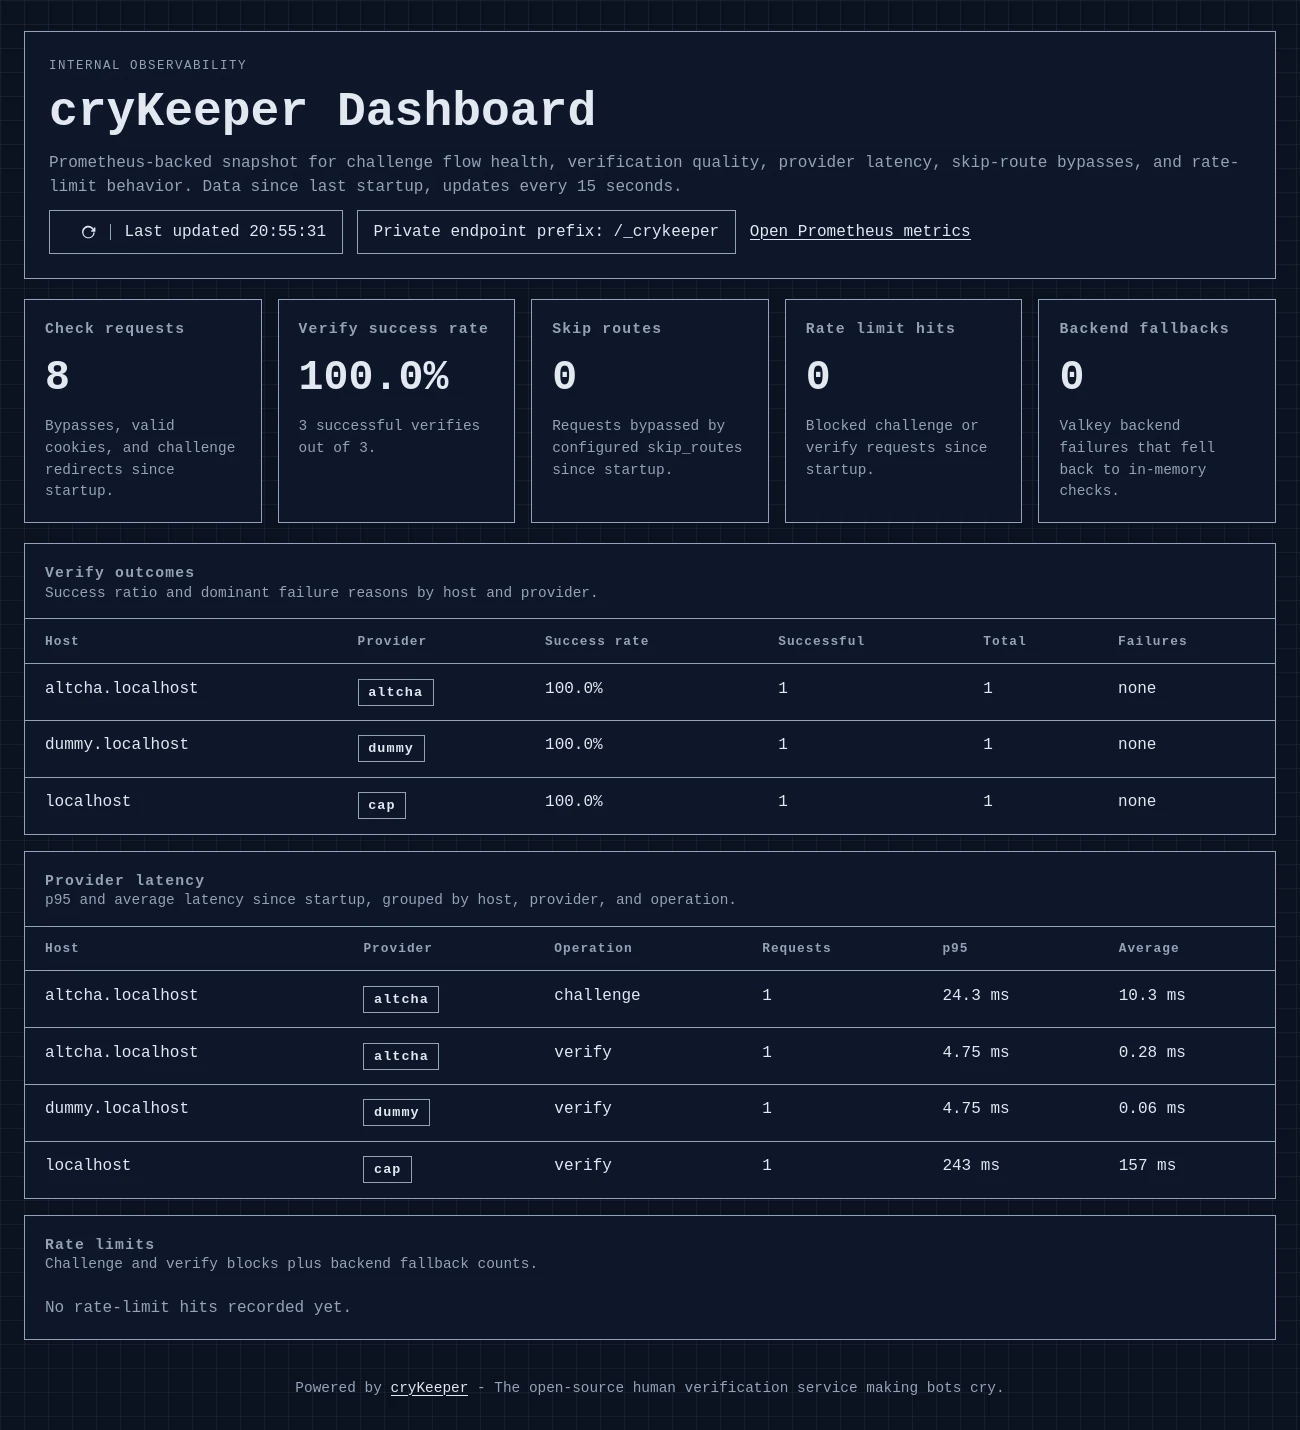
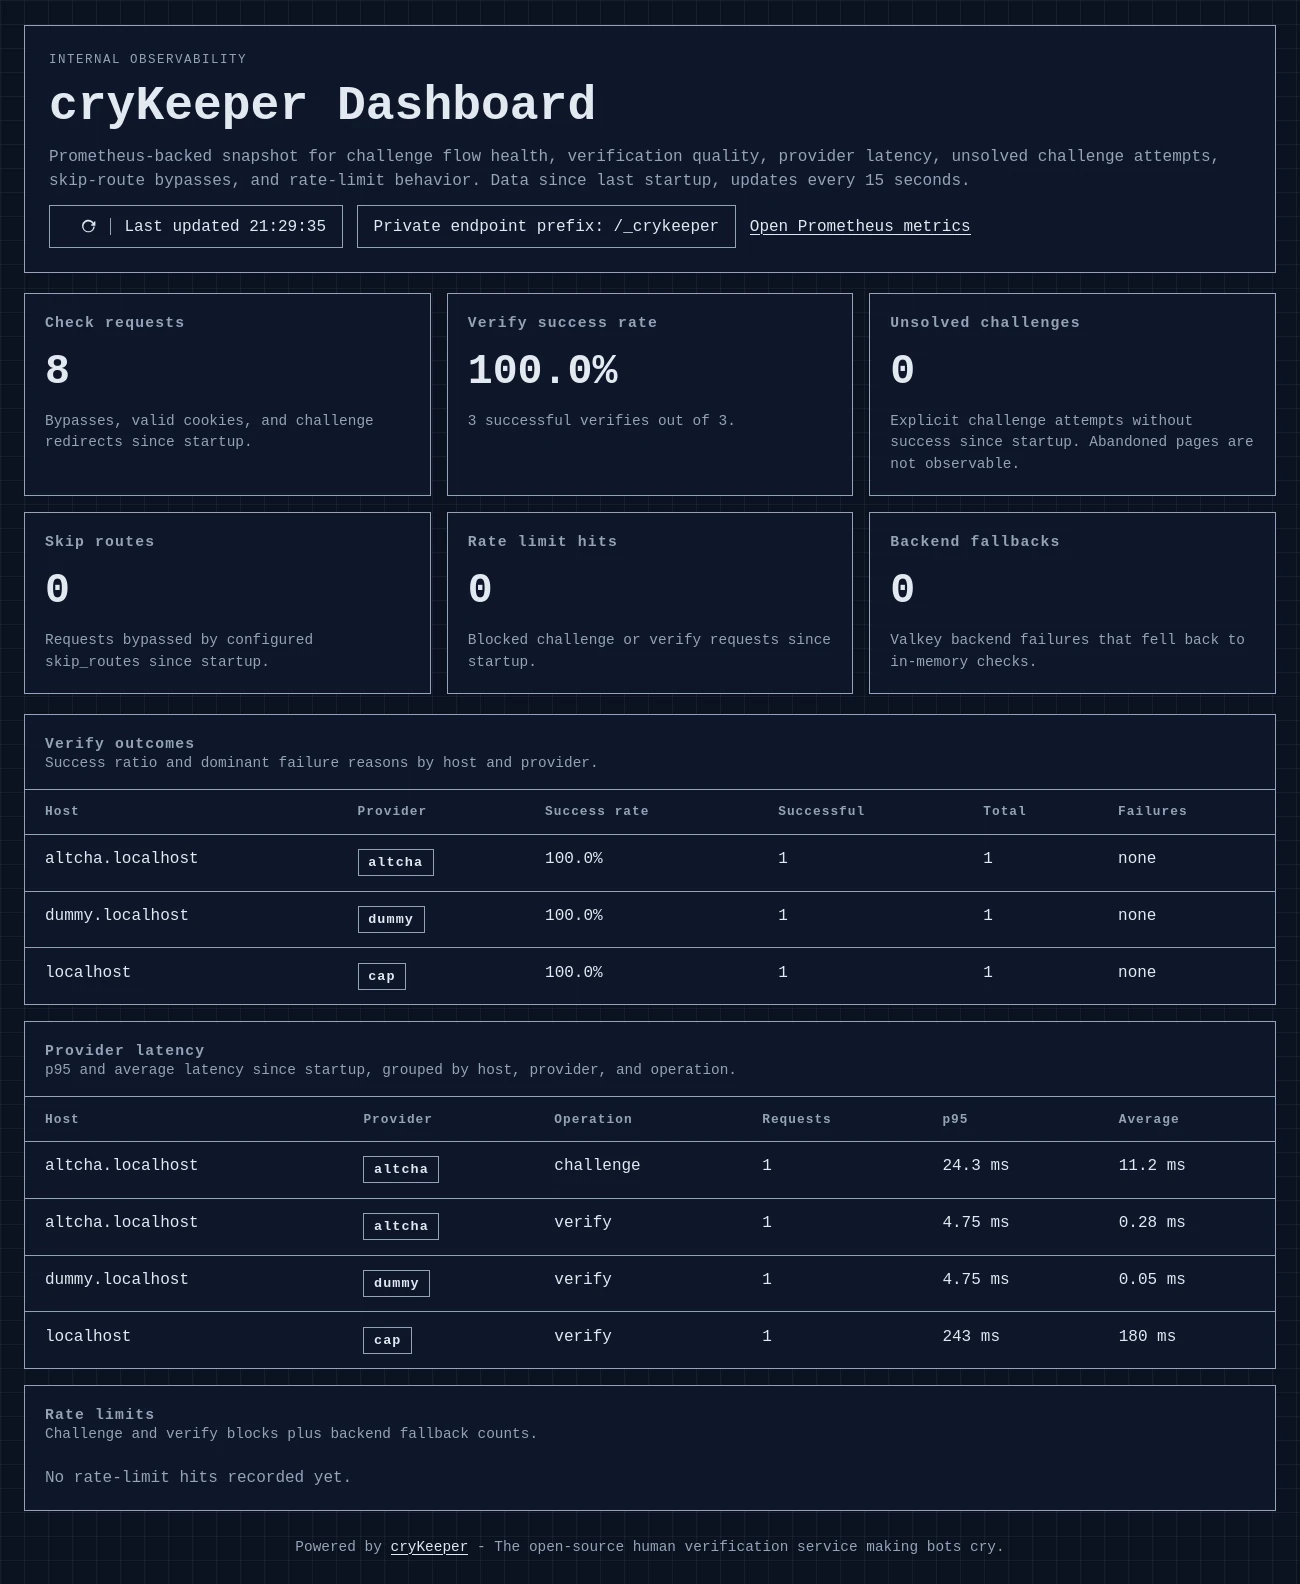
Added explicit challenge attempts without success to metrics

diff --git a/app/static/dashboard.js b/app/static/dashboard.js
@@ -20,6 +20,11 @@
         `${formatInteger(snapshot.verifySuccess)} successful verifies out of ${formatInteger(snapshot.verifyTotal)}.`,
       value: (snapshot) => formatRate(snapshot.verifySuccess, snapshot.verifyTotal),
     },
+    unsolved_challenges: {
+      detail: () =>
+        "Explicit challenge attempts without success since startup. Abandoned pages are not observable.",
+      value: (snapshot) => formatInteger(snapshot.unsolvedChallenges),
+    },
     skip_routes: {
       detail: () => "Requests bypassed by configured skip_routes since startup.",
       value: (snapshot) => formatInteger(snapshot.skipRoutes),
@@ -337,6 +342,10 @@
       skipRoutes: sumLabeledSamples(samples, "crykeeper_auth_bypass_total", {
         reason: "skip_route",
       }),
+      unsolvedChallenges: sumSamples(
+        samples,
+        "crykeeper_unsolved_challenge_attempts_total",
+      ),
       verifyRows: buildVerifyRows(samples),
       verifySuccess: totals.success,
       verifyTotal: totals.total,

diff --git a/app/templates/dashboard.html b/app/templates/dashboard.html
@@ -19,7 +19,8 @@
         <h1>cryKeeper Dashboard</h1>
         <p>
           Prometheus-backed snapshot for challenge flow health, verification quality,
-          provider latency, skip-route bypasses, and rate-limit behavior.
+          provider latency, unsolved challenge attempts, skip-route bypasses,
+          and rate-limit behavior.
           Data since last startup, updates every 15 seconds.
         </p>
         <div class="hero-actions">

diff --git a/app/static/dashboard.css b/app/static/dashboard.css
@@ -103,7 +103,7 @@ main.dashboard-shell {
 
 .dashboard-shell .cards {
   display: grid;
-  grid-template-columns: repeat(auto-fit, minmax(210px, 1fr));
+  grid-template-columns: 1fr 1fr 1fr;
   gap: 1rem;
   margin-top: 1.25rem;
 }
@@ -206,6 +206,10 @@ main.dashboard-shell {
 @media (max-width: 720px) {
   main.dashboard-shell {
     width: 100%;
+  }
+
+  .dashboard-shell .cards {
+    grid-template-columns: 1fr;
   }
 
   .dashboard-shell .hero,

diff --git a/app/observability.py b/app/observability.py
@@ -85,6 +85,12 @@ class CryKeeperObservability:
       buckets=_LATENCY_BUCKETS,
       registry=self._registry,
     )
+    self._unsolved_challenge_attempts = Counter(
+      "crykeeper_unsolved_challenge_attempts",
+      "Explicit challenge attempts that ended without a successful verification.",
+      labelnames=("host", "provider", "reason"),
+      registry=self._registry,
+    )
     self._rate_limit_hits = Counter(
       "crykeeper_rate_limit_hits",
       "Requests blocked by the challenge or verify rate limit.",
@@ -158,6 +164,14 @@ class CryKeeperObservability:
       outcome=outcome,
     ).observe(max(duration_seconds, 0.0))
 
+  def record_unsolved_challenge(self, host: str, provider: str, reason: str) -> None:
+    """Count one explicit challenge attempt that did not end in success."""
+    self._unsolved_challenge_attempts.labels(
+      host=_metric_host(host),
+      provider=(provider or "dummy").lower(),
+      reason=reason or "unknown",
+    ).inc()
+
   def record_rate_limit_hit(self, host: str, scope: str, backend: str) -> None:
     """Count one request blocked by the configured rate limiter."""
     self._rate_limit_hits.labels(
@@ -185,6 +199,9 @@ class CryKeeperObservability:
       "crykeeper_auth_bypass_total",
       reason="skip_route",
     )
+    unsolved_challenges = _sum_samples(
+      samples, "crykeeper_unsolved_challenge_attempts_total"
+    )
     rate_limit_hits = _sum_samples(samples, "crykeeper_rate_limit_hits_total")
     backend_failures = _sum_samples(
       samples, "crykeeper_rate_limit_backend_failures_total"
@@ -204,6 +221,12 @@ class CryKeeperObservability:
         "title": "Verify success rate",
         "value": _format_rate(verify_success, verify_total),
         "detail": f"{_format_integer(verify_success)} successful verifies out of {_format_integer(verify_total)}.",
+      },
+      {
+        "key": "unsolved_challenges",
+        "title": "Unsolved challenges",
+        "value": _format_integer(unsolved_challenges),
+        "detail": "Explicit challenge attempts without success since startup. Abandoned pages are not observable.",
       },
       {
         "key": "skip_routes",

diff --git a/tests/test_observability.py b/tests/test_observability.py
@@ -50,6 +50,7 @@ class CryKeeperObservabilityTests(unittest.TestCase):
     metrics_body = metrics_response.get_data(as_text=True)
     self.assertIn("crykeeper_check_requests_total", metrics_body)
     self.assertIn("crykeeper_challenge_requests_total", metrics_body)
+    self.assertIn("crykeeper_unsolved_challenge_attempts", metrics_body)
     self.assertIn("crykeeper_verify_attempts_total", metrics_body)
     self.assertIn('host="localhost"', metrics_body)
     self.assertIn('provider="dummy"', metrics_body)
@@ -88,14 +89,25 @@ class CryKeeperObservabilityTests(unittest.TestCase):
       "/_crykeeper/dashboard",
       base_url="http://localhost",
     )
+    metrics_response = client.get(
+      "/_crykeeper/metrics",
+      base_url="http://localhost",
+    )
 
     self.assertEqual(204, bypass_response.status_code)
     self.assertEqual(429, blocked_response.status_code)
     self.assertEqual(200, dashboard_response.status_code)
+    self.assertEqual(200, metrics_response.status_code)
 
     dashboard_body = dashboard_response.get_data(as_text=True)
+    metrics_body = metrics_response.get_data(as_text=True)
     self.assertIn("cryKeeper Dashboard", dashboard_body)
     self.assertIn("Skip routes", dashboard_body)
+    self.assertIn("Unsolved challenges", dashboard_body)
+    self.assertIn(
+      "Explicit challenge attempts without success since startup. Abandoned pages are not observable.",
+      dashboard_body,
+    )
     self.assertIn(
       "Requests bypassed by configured skip_routes since startup.", dashboard_body
     )
@@ -122,6 +134,8 @@ class CryKeeperObservabilityTests(unittest.TestCase):
       "custom footer that should not appear on the dashboard",
       dashboard_body,
     )
+    self.assertIn("crykeeper_unsolved_challenge_attempts_total", metrics_body)
+    self.assertIn('reason="rate_limited"', metrics_body)
 
   def test_metrics_are_not_served_below_public_path_prefix(self):
     app = self._create_app()

diff --git a/app/routes.py b/app/routes.py
@@ -124,6 +124,11 @@ def challenge() -> Response:
     _observability().record_challenge(
       request_host, settings.verification_mode, "insecure_transport"
     )
+    _observability().record_unsolved_challenge(
+      request_host,
+      settings.verification_mode,
+      "insecure_transport",
+    )
     return secure_transport_response
 
   rate_limit_response = _rate_limit_response("challenge", return_path)
@@ -154,6 +159,11 @@ def verify() -> Response:
       request_host,
       settings.verification_mode,
       "insecure_transport",
+      "insecure_transport",
+    )
+    _observability().record_unsolved_challenge(
+      request_host,
+      settings.verification_mode,
       "insecure_transport",
     )
     _observability().record_verify_duration(
@@ -208,6 +218,11 @@ def verify() -> Response:
       request_host,
       settings.verification_mode,
       verification_outcome,
+      _verification_metric_reason(verification_result),
+    )
+    _observability().record_unsolved_challenge(
+      request_host,
+      settings.verification_mode,
       _verification_metric_reason(verification_result),
     )
     _observability().record_verify_duration(
@@ -420,11 +435,21 @@ def _rate_limit_response(scope: str, return_path: str) -> Response | None:
       settings.verification_mode,
       "rate_limited",
     )
+    _observability().record_unsolved_challenge(
+      request_host,
+      settings.verification_mode,
+      "rate_limited",
+    )
   else:
     _observability().record_verify_result(
       request_host,
       settings.verification_mode,
       "rate_limited",
+      "rate_limited",
+    )
+    _observability().record_unsolved_challenge(
+      request_host,
+      settings.verification_mode,
       "rate_limited",
     )
 

diff --git a/.github/copilot-instructions.md b/.github/copilot-instructions.md
@@ -11,7 +11,7 @@ This repository is a minimal Flask-based human cryKeeper that sits in front of n
 - The Docker image also initializes Prometheus multiprocess storage for the internal observability endpoints by default via `CRYKEEPER_PROMETHEUS_MULTIPROC_DIR`. Keep that documented whenever container startup or worker behavior changes.
 - `rate_limit_valkey_url` remains a shared global setting even when `[[website]]` entries are used. Keep website-specific rate limits separated by keying on host rather than by allowing per-website Valkey URLs.
 - `app/routes.py` exposes the main flow under the shared `CRYKEEPER_PATH_PREFIX` prefix and any additional `path_prefix` values from matching `[[website]]` entries. That includes `/clear`, which deletes the verification cookie and redirects back to a safe local path. Keep redirect, form, and static URLs aligned with the effective per-host prefix, and keep `path_prefix` distinct from the reserved internal observability prefix `/_crykeeper`.
-- `app/observability.py` exposes internal Prometheus metrics and a server-rendered dashboard under the fixed `/_crykeeper` prefix rather than below `path_prefix`. Keep those endpoints suitable for private reverse-proxy exposure and do not accidentally reclassify them as public challenge routes.
+- `app/observability.py` exposes internal Prometheus metrics and a server-rendered dashboard under the fixed `/_crykeeper` prefix rather than below `path_prefix`. That observability surface includes explicit unsolved challenge attempts based on non-success challenge or verify outcomes, but it does not try to infer silent browser abandonment. Keep those endpoints suitable for private reverse-proxy exposure and do not accidentally reclassify them as public challenge routes.
 - `app/routes.py` also supports `skip_routes`, `bypass_headers`, `bypass_user_agents`, `bypass_ips`, and `allow_known_search_engines`, which can bypass `/check` before cookie validation. Keep route matching aligned with reverse-proxy forwarding of `X-Original-URI` and `X-Original-Method`, keep `bypass_headers` limited to exact header/value token matches with a minimum token length of 32 characters and deliberate client or proxy handling, and keep IP bypass semantics aligned with trusted proxy handling because `bypass_ips` matches the sanitized client address seen by Flask.
 - `app/cookies.py` issues the stateless verification cookie and may bind it to client properties via `CRYKEEPER_HUMAN_COOKIE_BINDING`. Default: `user-agent`; `ip-user-agent` additionally depends on the forwarded client IP. The default `CRYKEEPER_HUMAN_COOKIE_TTL_SECONDS` is 24 hours unless config overrides it.
 - `app/__init__.py` applies trusted proxy handling via `CRYKEEPER_TRUSTED_PROXY_HOPS`; when IP binding or HTTPS enforcement changes, keep the proxy assumptions explicit and documented.

diff --git a/README.md b/README.md
@@ -208,8 +208,8 @@ In deployments with `[[website]]` overrides, the same endpoint set is also expos
 
 cryKeeper also exposes two fixed internal observability endpoints outside the public `path_prefix` namespace:
 
-- `GET /_crykeeper/metrics`: Prometheus exposition endpoint with counters and histograms for auth checks, challenge renders, verify outcomes, rate-limit hits, provider latency, and rate-limit backend fallbacks.
-- `GET /_crykeeper/dashboard`: small server-rendered dashboard built from the same live Prometheus metrics. It shows verify success rates, dominant failure reasons, provider latency, skip-route bypass counts, rate-limit hits, and backend fallback counts.
+- `GET /_crykeeper/metrics`: Prometheus exposition endpoint with counters and histograms for auth checks, challenge renders, explicit unsolved challenge attempts, verify outcomes, rate-limit hits, provider latency, and rate-limit backend fallbacks.
+- `GET /_crykeeper/dashboard`: small server-rendered dashboard built from the same live Prometheus metrics. It shows verify success rates, explicit unsolved challenge attempts, dominant failure reasons, provider latency, skip-route bypass counts, rate-limit hits, and backend fallback counts.
 
 These endpoints are meant for private reverse-proxy exposure only, for example on a dedicated internal hostname or an allowlisted admin vhost. They are intentionally not registered below `path_prefix`, so the normal public challenge routes do not expose them automatically.
 
